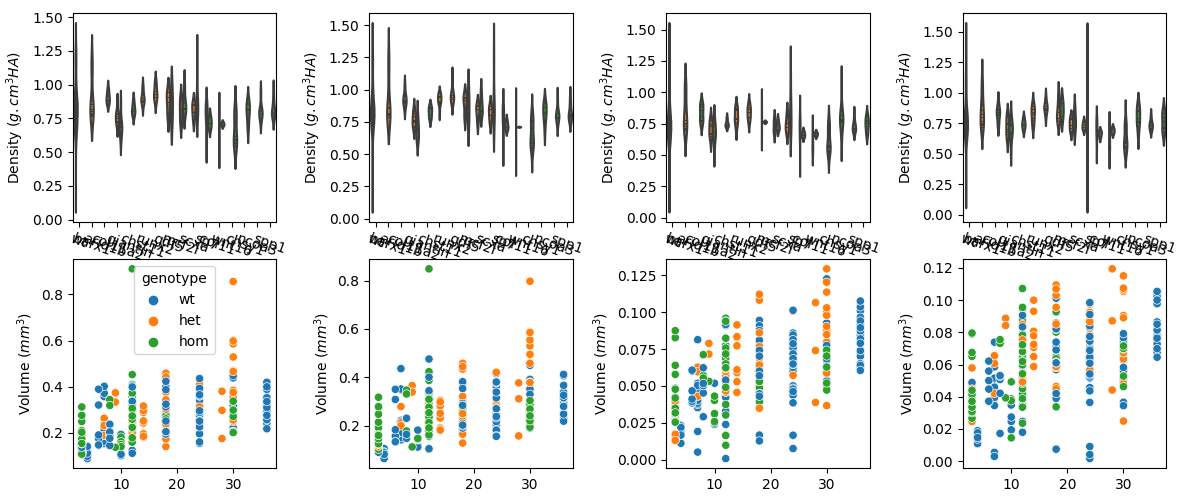
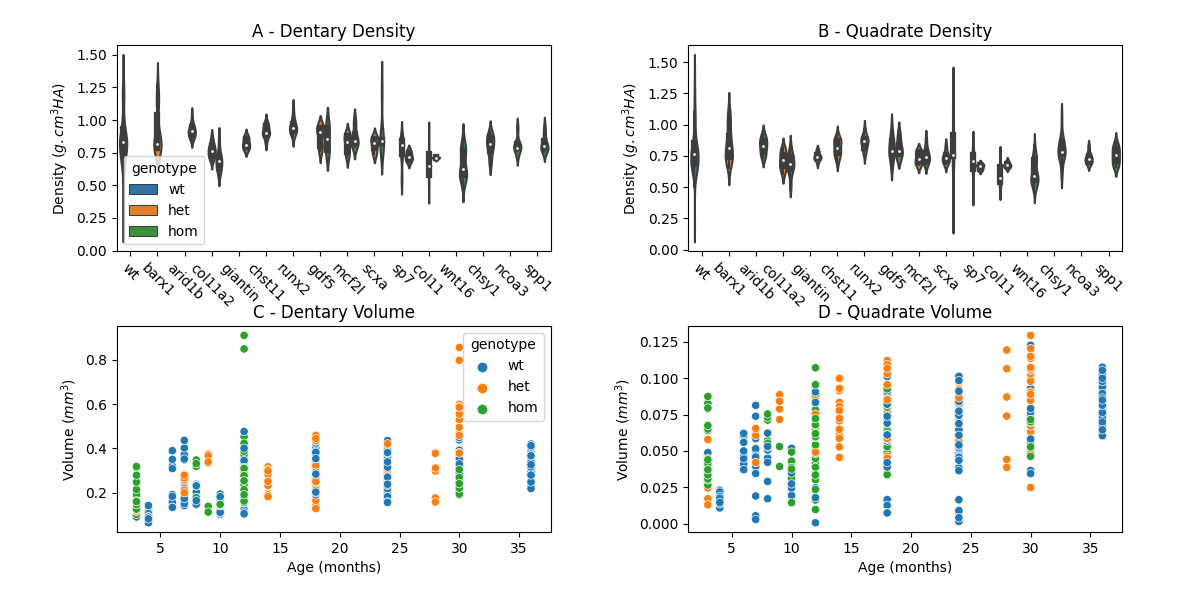
new_figs!

diff --git a/scripts/jaw/figs/plot_dens.py b/scripts/jaw/figs/plot_dens.py
@@ -21,7 +21,7 @@ if __name__ == '__main__':
 
 	data_path = "output/results/jaw/jawunet_data230124.csv"
 	cols = ["Dens1","Dens2","Dens3","Dens4","Vol1","Vol2","Vol3","Vol4"]
-	sub_bones = ["L_Dentary", "R_Dentary", "L_Quadrate", "R_Quadrate"]
+	sub_bones = ["Dentary", "Dentary", "Quadrate", "Quadrate"]
 	all_genes = ['wt', 'barx1', 'arid1b', 'col11a2', 'panther', 'giantin', 'chst11', 'runx2',
 	'wnt16', 'ncoa3', 'gdf5', 'mcf2l', 'dot1', 'scxb', 'scxa', 'col9', 'sp7', 'col11 ',
 	'vhl', 'tert', 'chsy1', 'col9a1', 'ras', 'atg', 'ctsk', 'spp1', 'il10', 'il1b',
@@ -60,14 +60,6 @@ if __name__ == '__main__':
 	vols_df = ctreader.trim(vols_df, 'genotype', ['wt', 'het', 'hom'])
 	vols_df = ctreader.trim(vols_df, 'strain', genes_to_include)
 
-	dens_df.plot()
-	plt.savefig("output/results/jaw/dens_df.png")
-	plt.clf()
-
-	vols_df.plot()
-	plt.savefig("output/results/jaw/vols_df.png")
-	plt.clf()
-
 	id_vars = ['age', 'strain', 'genotype', 'length']
 	value_vars = sub_bones
 
@@ -79,10 +71,11 @@ if __name__ == '__main__':
 
 	# fig = plt.subplot([331])
 
-	fig, axs = plt.subplots(2,len(sub_bones))
-	plt.tight_layout(pad=0.5)
+	sub_bones_to_plot = ["Dentary", "Quadrate"]
+	fig, axs = plt.subplots(2,len(sub_bones_to_plot))
+	plt.tight_layout(pad=2.2)
 
-	for i, sub_bone in enumerate(sub_bones):
+	for i, sub_bone in enumerate(sub_bones_to_plot):
 		print(i, sub_bone)
 		dens_sub_bone = ctreader.trim(dens_df, 'Bone', [sub_bone])
 		if i == 0:
@@ -90,19 +83,26 @@ if __name__ == '__main__':
 		else:
 			ledge = False
 
-		# plt.xticks(rotation = -45)
-		g = sns.violinplot(data=dens_sub_bone, x='strain', y="Density ($g.cm^{3}HA$)", hue='genotype', ax=axs[0,i], inner='stick',)
-		# plt.draw()
+		g = sns.violinplot(data=dens_sub_bone, x='strain', y="Density ($g.cm^{3}HA$)", hue='genotype', ax=axs[0,i], ledgend=ledge)
 		# plt.xticks(rotation=-45) 
-		axs[0,i].tick_params(axis='x', rotation=-20)
-		axs[0,i].legend().remove()
+		axs[0,i].tick_params(axis='x', rotation=-45)
+		if i != 0 : axs[0,i].legend().remove()
+		sub_plot_title = f"{chr(i+65)} - {sub_bone} Density"
+		axs[0,i].set_title(sub_plot_title)
+		axs[0,i].set_xlabel("")
+
 
 
 		vols_sub_bone = ctreader.trim(vols_df, 'Bone', [sub_bone])
 
 		sns.scatterplot(data=vols_sub_bone, x='age', y="Volume ($mm^{3}$)", hue='genotype', ax=axs[1,i], legend=ledge)
+		sub_plot_title = f"{chr(i+65+2)} - {sub_bone} Volume"
+		axs[1,i].set_title(sub_plot_title)
+		axs[1,i].set_xlabel("Age (months)")
+
+  
 	fig.set_figwidth(12)
-	fig.set_figheight(5)
+	fig.set_figheight(6)
 	plt.savefig("output/results/jaw/vol_dens_fig.png")
 	plt.clf()
 
@@ -132,12 +132,4 @@ if __name__ == '__main__':
 
 	# sns.violinplot(data=vols_df, x='strain', y="Volume ($mm^{3}$)", hue='age', inner='stick',)
 	# plt.savefig("output/results/jaw/vols_age_fig3.png")
-	# plt.clf()
-
-	# dens_df.plot()
-	# plt.savefig("output/results/jaw/dens_df.png")
-	# plt.clf()
-
-	# vols_df.plot()
-	# plt.savefig("output/results/jaw/vols_df.png")
 	# plt.clf()

diff --git a/scripts/jaw/training/scampi_cv_jaw_2.py b/scripts/jaw/training/scampi_cv_jaw_2.py
@@ -76,8 +76,8 @@ if __name__ == "__main__":
 		"batch_size": 8,
 		"n_blocks":6,
 		"norm": 'BATCH',
-		"epochs": 150,
-		"start_filters": 32,
+		"epochs": 100,
+		"start_filters": 16,
 		"kernel_size": 7,
 		"activation": "RELU",
 		"dropout": 0.015,
@@ -96,52 +96,19 @@ if __name__ == "__main__":
 	extra = list(set(curated).difference(keys))
 	print(f"difference between curated and keys {missing}{extra}")
 
-	crossval_folds = {
-		"young_wt" 			:[241, 50, 39, 164],
-		"young_mutants" 	:[257, 351, 441, 116],
-		"1yr_wt" 			:[72, 71, 69, 401],
-		"1yr_mut" 			:[193, 420, 274, 364],
-		"1yr_het" 			:[291, 183, 250, 182],
-		"2yr_wt" 			:[220, 1, 340],
-		"2yr_mut" 			:[337, 139, 301, 230],
-		"3yr_wt" 			:[133, 135, 96, 131],
-	}
-
-	cv_array = np.array([
-		[241, 50, 39, 164],
-		[257, 351, 441, 116],
-		[72, 71, 69, 401],
-		[193, 420, 274, 364],
-		[291, 183, 250, 182],
-		[220, 1, 340],	
-		[337, 139, 301, 230],
-		[133, 135, 96, 131],
-	], dtype = object)
-	flattened_cv_array = np.hstack(cv_array)
-
-	missing = list(set(flattened_cv_array).difference(curated))
-	extra = list(set(curated).difference(flattened_cv_array))
-	if len(missing) > 0 or len(extra) > 0:
-		print(missing, extra)
-		raise ValueError("something wrong with folds")
-
-	print(len(curated))
-
-	for i, (k, fold) in enumerate(crossval_folds.items()):
-		name = f'jaw cv-btrue-{i+1}-{k}'
-		print(f"\n\n\n !!! ---- training {name}  ---- !!! \n\n\n")
-		print(k, fold)
+	random.shuffle(curated)
+	fold_size = 2
+	n_curated = len(curated)
+	fold_n = 0
+	for i in range(0,n_curated-(fold_size-1),fold_size):
+		fold = curated[i:i+fold_size]
+		print(f"fold {fold_n+1} test {fold}")
+		name = f'jaw cv{fold_n+1}'
 
 		train_data = [x for x in curated if x not in fold]
-		# train_data = train_data[0]
 		val_data = fold
 		test_data = fold
-
-		missing = list(set(fold).difference(curated))
-		extra = list(set(curated).difference(fold))
-
-		print(missing)
-		print(len(test_data), len(train_data))
+		fold_n+=1
 
 		work_dir = Path().parent.resolve()
 		train(config, dataset_path, name, bone=bone, train_data=train_data, val_data=val_data, model=model, 

diff --git a/scripts/jaw/figs/plot_2x4.py b/scripts/jaw/figs/plot_2x4.py
@@ -45,8 +45,8 @@ if __name__ == '__main__':
 	genes_to_include = ['wt', 'barx1', 'arid1b', 'col11a2', 'giantin', 'chst11', 'runx2',
 	'wnt16', 'ncoa3', 'gdf5', 'mcf2l', 'scxa', 'sp7', 'col11 ',
 	'chsy1', 'atg', 'ctsk', 'spp1']
-	genes_to_analyse = ['wt','col11 ']
-	age_bins = [6,12] # for age in months
+	genes_to_analyse = ['wt',"col11a2"]
+	age_bins = [6,12,24,36] # for age in months
 
 	# import pdb; pdb.set_trace()
 
@@ -113,7 +113,7 @@ if __name__ == '__main__':
 				sns.boxplot(data=final_df,  x="genotype", y="Density ($g.cm^{3}HA$)",ax=axs[i,j])
 			else: print("\nSKIPPED\n")
 			if b == "Dentary": axs[i,j].set_xlabel("")
-			if bin_ == 12: axs[i,j].set_ylabel("")
+			if bin_ > 6: axs[i,j].set_ylabel("")
 			names = get_names(final_df)
 			sub_plot_title = f"{chr(fig_index+65)} - {bones_to_analyse_short[i]} {bin_} months, n = {names}"
 			axs[i,j].set_title(sub_plot_title)
@@ -122,8 +122,8 @@ if __name__ == '__main__':
 
 	# import pdb;pdb.set_trace()
 	
-	fig.set_figwidth(7)
-	fig.set_figheight(9)
+	fig.set_figwidth(12)
+	fig.set_figheight(7)
 	fig.suptitle(f"Densities {genes_to_analyse[-1]}", fontsize=16, y=1.025)
 
 	# plt.subplots_adjust(left=0.125, bottom=0.125, right=0.25, top=0.25, wspace=0.25, hspace=0.25)
@@ -148,15 +148,15 @@ if __name__ == '__main__':
 			else: print("\nSKIPPED\n")
    
 			if b == "Dentary": axs[i,j].set_xlabel("")
-			if bin_ == 12: axs[i,j].set_ylabel("")
+			if bin_ > 6: axs[i,j].set_ylabel("")
 			names = get_names(final_df)
 			sub_plot_title = f"{chr(fig_index+65)} - {bones_to_analyse_short[i]} {bin_} months, n = {names}"
 			axs[i,j].set_title(sub_plot_title)
 
 			fig_index += 1
 
-	fig.set_figwidth(7)
-	fig.set_figheight(9)
+	fig.set_figwidth(12) #7
+	fig.set_figheight(7) #9
 	# plt.subplots_adjust(left=0.125, bottom=0.125, right=0.25, top=0.25, wspace=0.25, hspace=0.25)
 	# plt.gcf().subplots_adjust(bottom=0.05)
 	fig.suptitle(f"Volumes {genes_to_analyse[-1]}", fontsize=16, y=1.025)

diff --git a/scripts/jaw/training/scampi.py b/scripts/jaw/training/scampi.py
@@ -105,7 +105,7 @@ def train(config, dataset_path, name, bone, train_data, val_data, test_data, mod
 	patch_sampler = tio.LabelSampler(params['patch_size'], 'label', params['sampler_probs'])
 	patches_queue = tio.Queue(
 		train_ds,
-		max_length=8000,
+		max_length=10000,
 		samples_per_volume=6,
 		sampler=patch_sampler,
 		num_workers=10,
@@ -117,10 +117,10 @@ def train(config, dataset_path, name, bone, train_data, val_data, test_data, mod
 	val_sampler = tio.LabelSampler(params['patch_size'], 'label', params['sampler_probs'])
 	val_patches_queue = tio.Queue(
 		val_ds,
-		max_length=8000,
+		max_length=10000,
 		samples_per_volume=6,
 		sampler=val_sampler,
-		num_workers=6,
+		num_workers=10,
 	)
 	val_loader = torch.utils.data.DataLoader(val_patches_queue, batch_size=params['batch_size'], shuffle=False, num_workers=0, pin_memory=torch.cuda.is_available())
 
